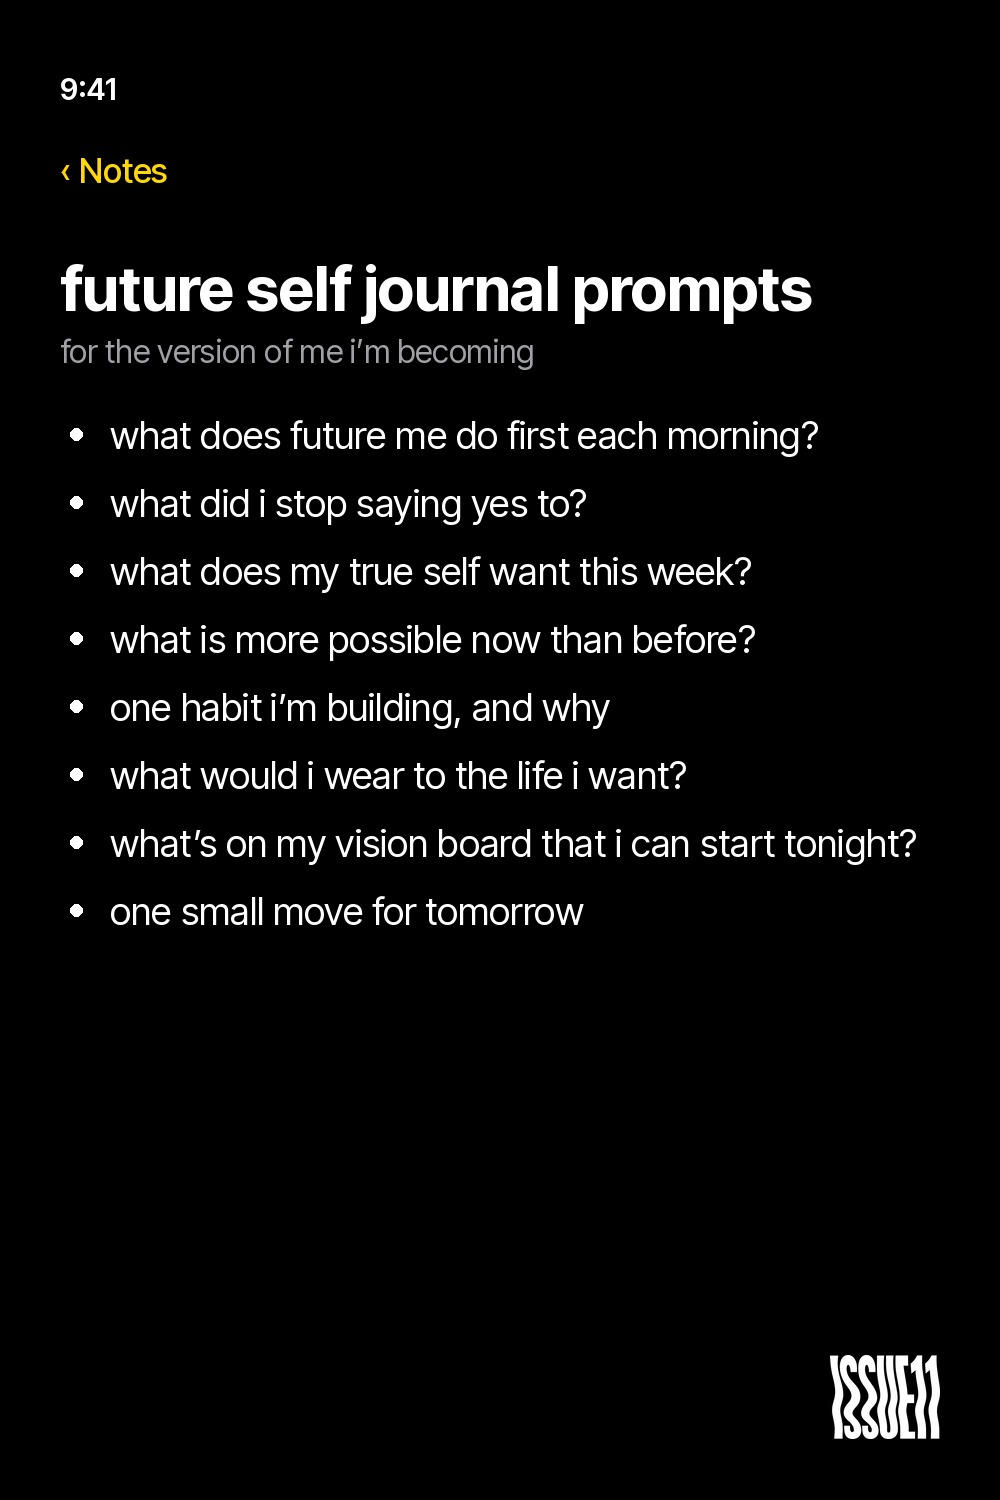
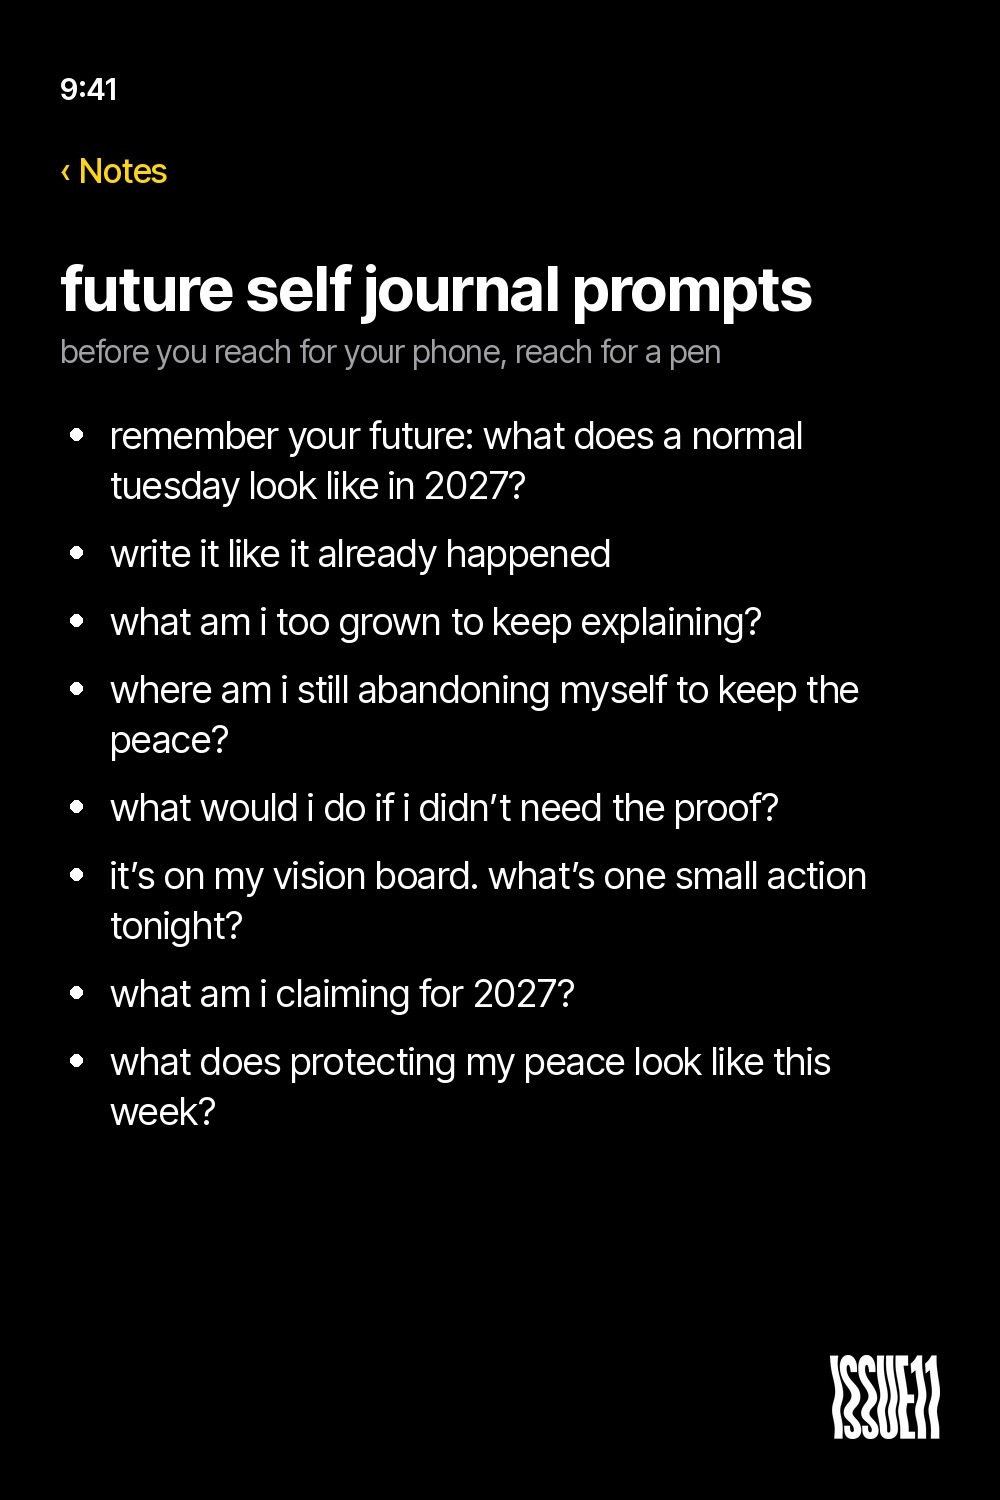
Pinterest: Notes pin rewritten in customer Lexicon wording
Claude-Session: https://claude.ai/code/session_013zCndAMB566ZdjtTW5BiS4

Changed region(s): [[0.062, 0.276, 0.93, 0.6747], [0.124, 0.6747, 0.837, 0.7667], [0.062, 0.2147, 0.713, 0.2453]]

diff --git a/drafts/pinterest/templates/more_styles.py b/drafts/pinterest/templates/more_styles.py
@@ -26,8 +26,8 @@ d.text((60,70),"9:41",font=IT(30,"SemiBold"),fill=(255,255,255))
 d.text((60,150),"‹ Notes",font=IT(34,"Medium"),fill=(255,214,10))
 y=250
 for l in wrap(d,"future self journal prompts",IT(62,"Bold"),W-120): d.text((60,y),l,font=IT(62,"Bold"),fill=(255,255,255)); y+=72
-d.text((60,y+10),"for the version of me i’m becoming",font=IT(32,"Regular"),fill=(160,160,165)); y+=90
-ps=["what does future me do first each morning?","what did i stop saying yes to?","what does my true self want this week?","what is more possible now than before?","one habit i’m building, and why","what would i wear to the life i want?","what’s on my vision board that i can start tonight?","one small move for tomorrow"]
+d.text((60,y+10),"before you reach for your phone, reach for a pen",font=IT(32,"Regular"),fill=(160,160,165)); y+=90
+ps=["remember your future: what does a normal tuesday look like in 2027?","write it like it already happened","what am i too grown to keep explaining?","where am i still abandoning myself to keep the peace?","what would i do if i didn’t need the proof?","it’s on my vision board. what’s one small action tonight?","what am i claiming for 2027?","what does protecting my peace look like this week?"]
 for p in ps:
     ls=wrap(d,p,IT(38,"Regular"),W-170)
     d.ellipse([70,y+16,82,y+28],fill=(255,255,255))

diff --git a/.pipeline/lessons.md b/.pipeline/lessons.md
@@ -469,3 +469,4 @@ Format: `- YYYY-MM-DD · <agent> · <what> · why · cost`
 - 2026-11-13 (AEO) Megan, word for word: "I think the pain point sounds about too many screenshots rather than the actual pain point". Lead ISSUE11 hooks with the CORE pain from design/POSITIONING.md #10 ("I know the life I want — I just struggle to bridge the gap between who I am and who I want to become"), not the screenshot pile. Screenshots are a detail, not the pain.
 - 2026-11-14 RULE (Megan, word for word: "it's really important to use lexicon and brand voice etc"): every pin, caption, quote card and cover line is written from design/editorial/LEXICON.md (copied from her Lexicon doc) + her Brand Voice Guide (https://claude.ai/artifact/92WZYpLvRUwjLLNtQmyEPp): reader line "I am becoming me", registry lines as written, their phrases word for word, no contrast turns ("Not X. Y."), no faith words, ALL CAPS cover lines with no full stops, one of her emojis max. Run the Voice Guide's "Before anything runs" checklist before any batch.
 - 2026-11-14 (AEO) Live Framer article links are relative (href="./slug"), so grep for that form when auditing internal links; my first audit missed them. To add a CMS link with the Framer MCP: TextRun link {href:"/blog/:<collectionId>", collectionItem:"<slug>"} (ISSUE11 qNa_LfTAC, Glammi R4mgLoqyF), inserted as a TextBlock right before the FAQ heading. Re-run the inbound-link check after each publish so no new article stays unlinked.
+- 2026-11-14 Pinterest: Megan said the Notes pin "doesn't 100% sound human". Write prompt/list pins only from customer phrases in design/editorial/LEXICON.md ("remember your future", "too grown to keep explaining", "I don't need the proof", "protect my peace", "one small action"), not our own coaching wording.
